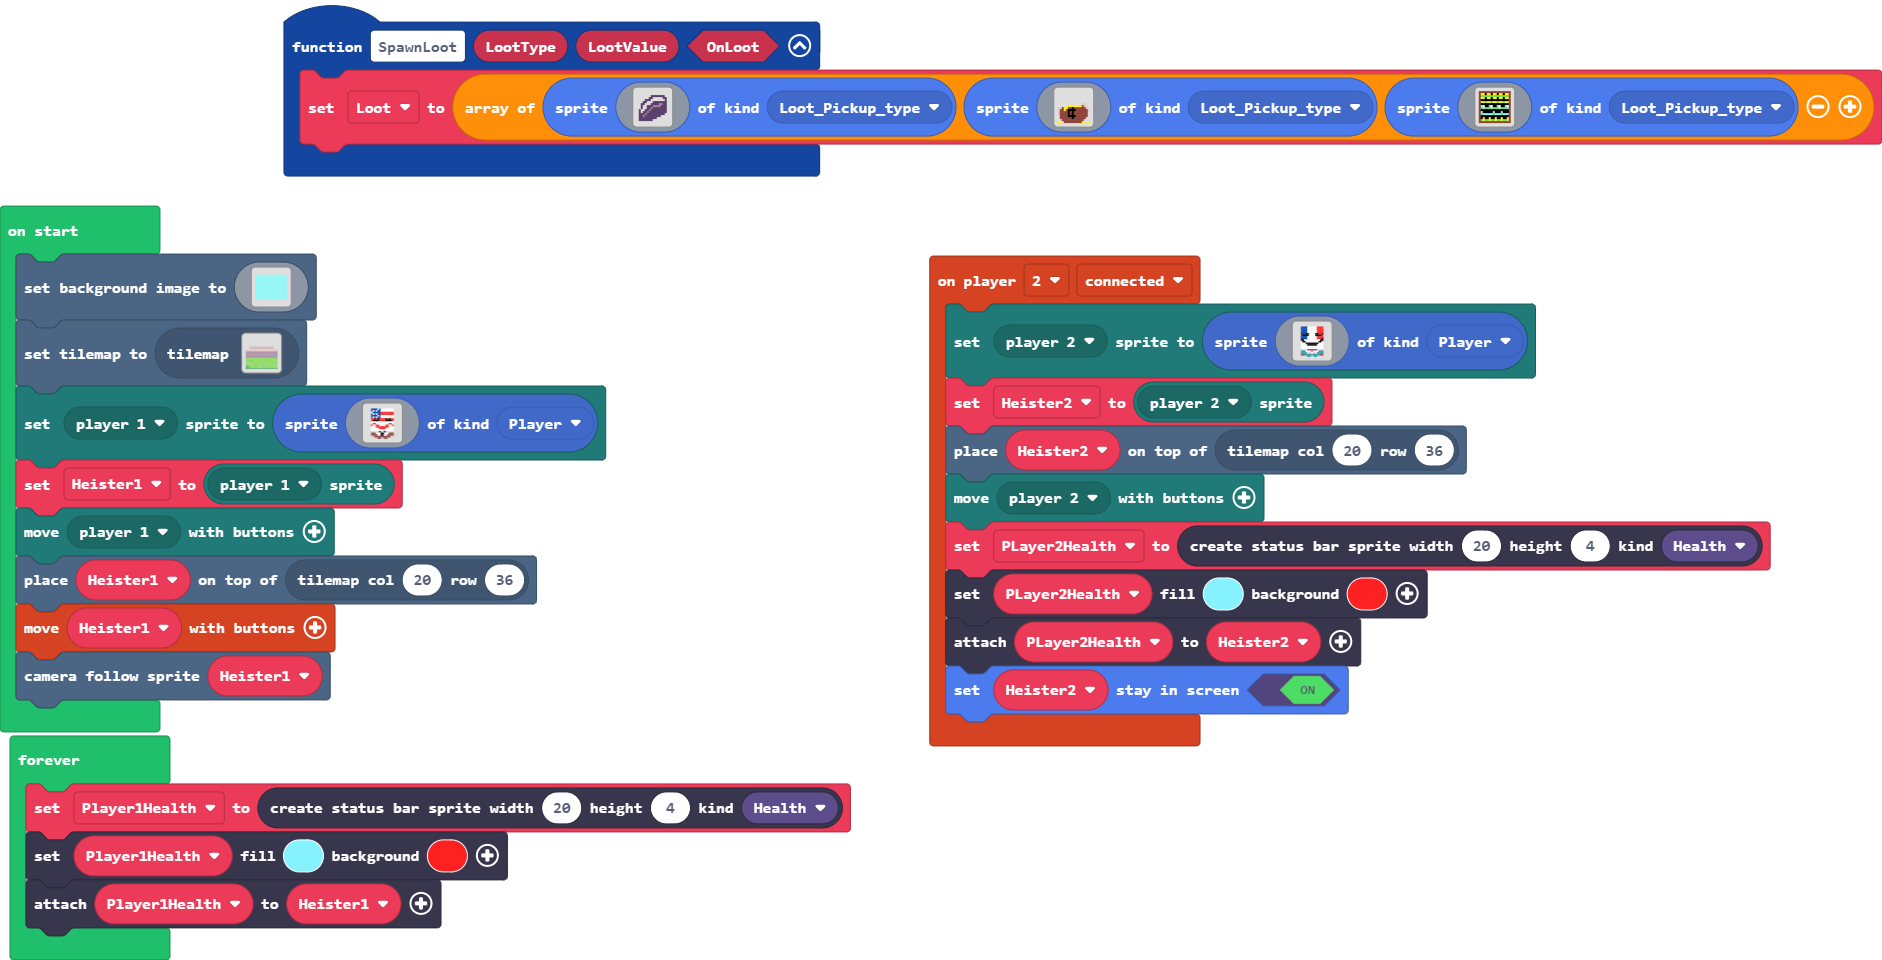
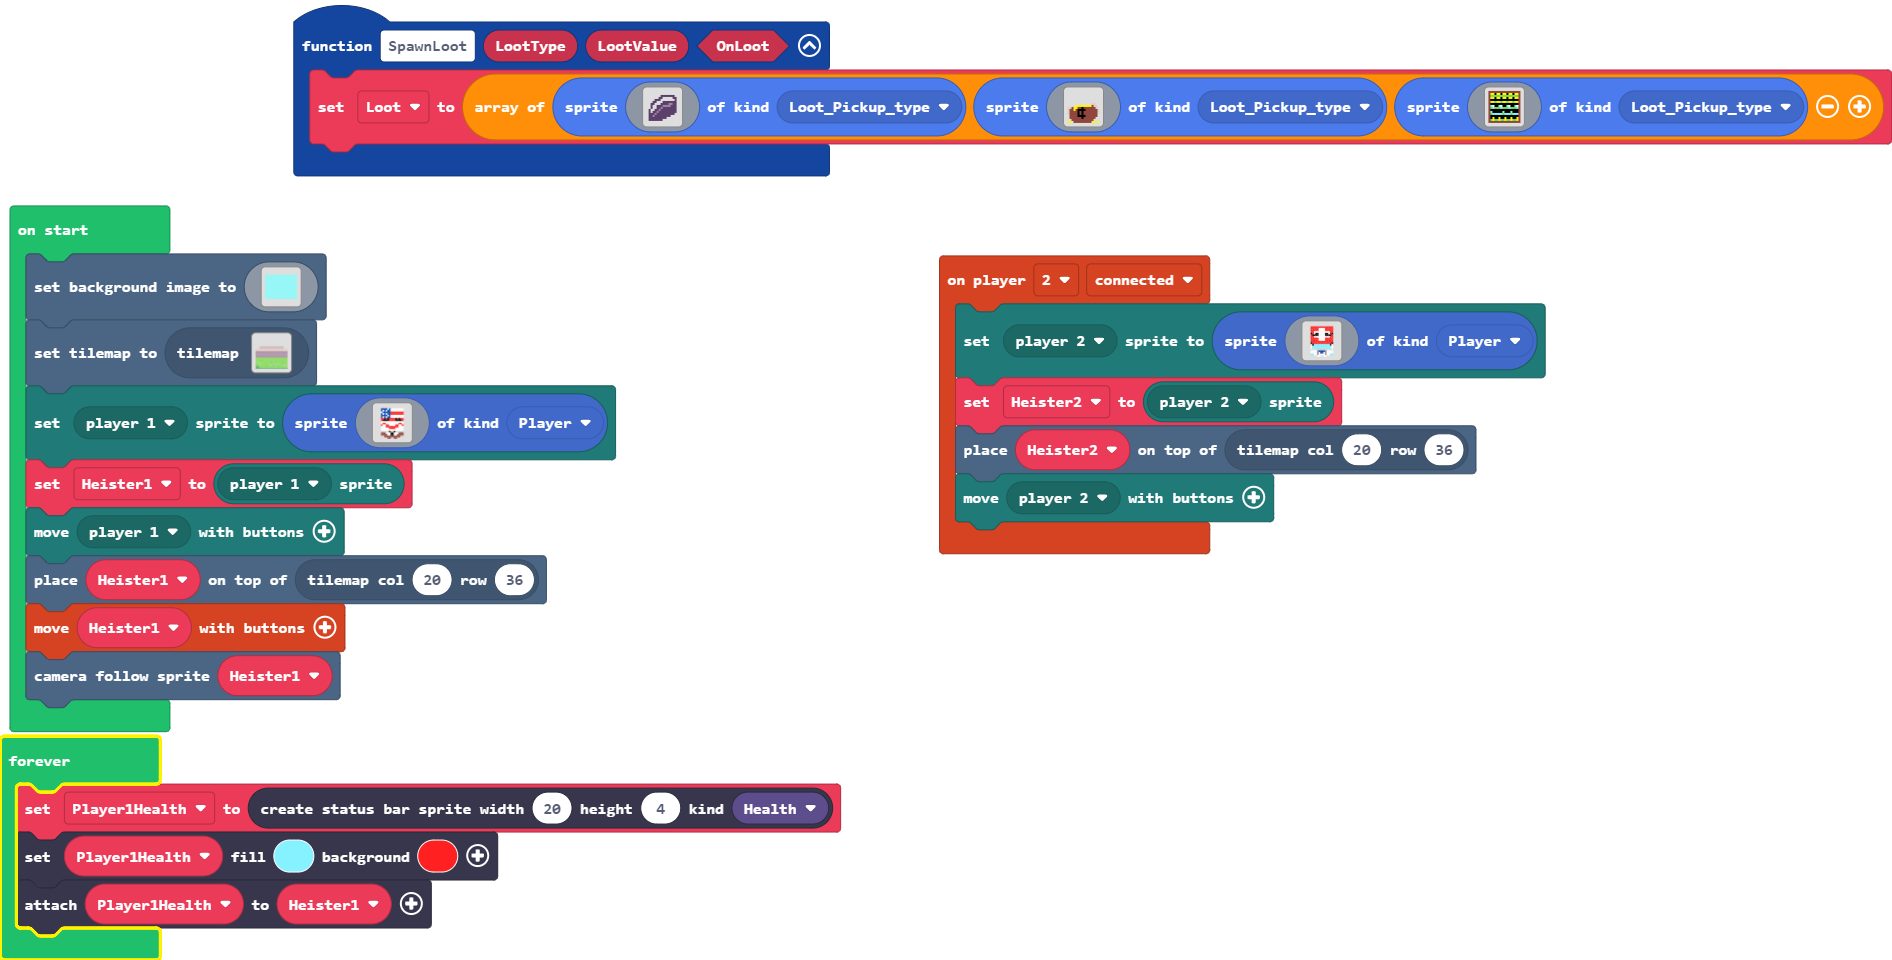
Update main.blocks, main.ts, images.g.jres, images.g.ts

diff --git a/images.g.ts b/images.g.ts
@@ -135,29 +135,6 @@ e f 5 f f 5 f f 5 f f 5 f f 5 e
 e 7 5 7 7 5 7 7 5 7 7 5 7 7 5 e 
 e e e e e e e e e e e e e e e e 
 `;
-            case "image3":
-            case "Luxembourg":return img`
-....................
-...88881111112222...
-...88881111112222...
-...88881111112222...
-...88881111112222...
-...f88ff1111ff22f...
-...8ffff1111ffff2...
-...88881111112222...
-...f888111111222f...
-...ff1111111111ff...
-...1ff11111111ff1...
-...111ffffffff111...
-...1111ffffff1111...
-...11111111111111...
-...11111111111111...
-.......eeeeee.......
-...66611133111666...
-...66661311316666...
-...ee6666666666ee...
-.......66..66.......
-`;
             case "image8":
             case "sky":return img`
 9999999999999999999999999999999999999999999999999999999999999999999999999999999999999999999999999999999999999999999999999999999999999999999999999999999999999999
@@ -280,6 +257,44 @@ e e e e e e e e e e e e e e e e
 9999999999999999999999999999999999999999999999999999999999999999999999999999999999999999999999999999999999999999999999999999999999999999999999999999999999999999
 9999999999999999999999999999999999999999999999999999999999999999999999999999999999999999999999999999999999999999999999999999999999999999999999999999999999999999
 9999999999999999999999999999999999999999999999999999999999999999999999999999999999999999999999999999999999999999999999999999999999999999999999999999999999999999
+`;
+            case "image3":
+            case "Medic":return img`
+....................
+...22222222222222...
+...22222111122222...
+...22222111122222...
+...22111111111122...
+...f21ff1111ff12f...
+...2ffff1111ffff2...
+...22111111111122...
+...22222111122222...
+...22222111122222...
+...22222222222222...
+...f222222222222f...
+...1f9999999999f1...
+...19999999999991...
+...19999999999991...
+.......dddddd.......
+...1111b8888b1111...
+...1111b1881b1111...
+...9911b1111b1199...
+.......11..11.......
+`;
+            case "image9":
+            case "MEdic_bag":return img`
+. . f f f f f f f f . . 
+. . f . . . . . . f . . 
+. 2 b 2 2 2 2 2 2 b 2 . 
+. 2 1 2 2 2 2 2 2 1 2 . 
+. 2 1 2 2 2 2 2 2 1 2 . 
+. 2 1 2 2 1 1 2 2 1 2 . 
+. 2 1 2 1 1 1 1 2 1 2 . 
+. 2 1 2 1 1 1 1 2 1 2 . 
+. 2 1 2 2 1 1 2 2 1 2 . 
+. 2 1 2 2 2 2 2 2 1 2 . 
+. 2 1 2 1 1 2 1 2 1 2 . 
+. 2 b 2 1 2 2 1 2 b 2 . 
 `;
         }
         return null;

diff --git a/main.ts b/main.ts
@@ -5,17 +5,12 @@ function SpawnLoot (LootType: string, LootValue: number, OnLoot: boolean) {
     Loot = [sprites.create(assets.image`Money_Bag`, SpriteKind.Loot_Pickup_type), sprites.create(assets.image`Bag_of_GOLD`, SpriteKind.Loot_Pickup_type), sprites.create(assets.image`Jewlery_Box`, SpriteKind.Loot_Pickup_type)]
 }
 controller.player2.onEvent(ControllerEvent.Connected, function () {
-    mp.setPlayerSprite(mp.playerSelector(mp.PlayerNumber.Two), sprites.create(assets.image`Luxembourg`, SpriteKind.Player))
+    mp.setPlayerSprite(mp.playerSelector(mp.PlayerNumber.Two), sprites.create(assets.image`Medic`, SpriteKind.Player))
     Heister2 = mp.getPlayerSprite(mp.playerSelector(mp.PlayerNumber.Two))
     tiles.placeOnTile(Heister2, tiles.getTileLocation(20, 36))
     mp.moveWithButtons(mp.playerSelector(mp.PlayerNumber.Two))
-    PLayer2Health = statusbars.create(20, 4, StatusBarKind.Health)
-    PLayer2Health.setColor(9, 2)
-    PLayer2Health.attachToSprite(Heister2)
-    Heister2.setStayInScreen(true)
 })
 let Player1Health: StatusBarSprite = null
-let PLayer2Health: StatusBarSprite = null
 let Heister2: Sprite = null
 let Loot: Sprite[] = []
 scene.setBackgroundImage(assets.image`sky`)
